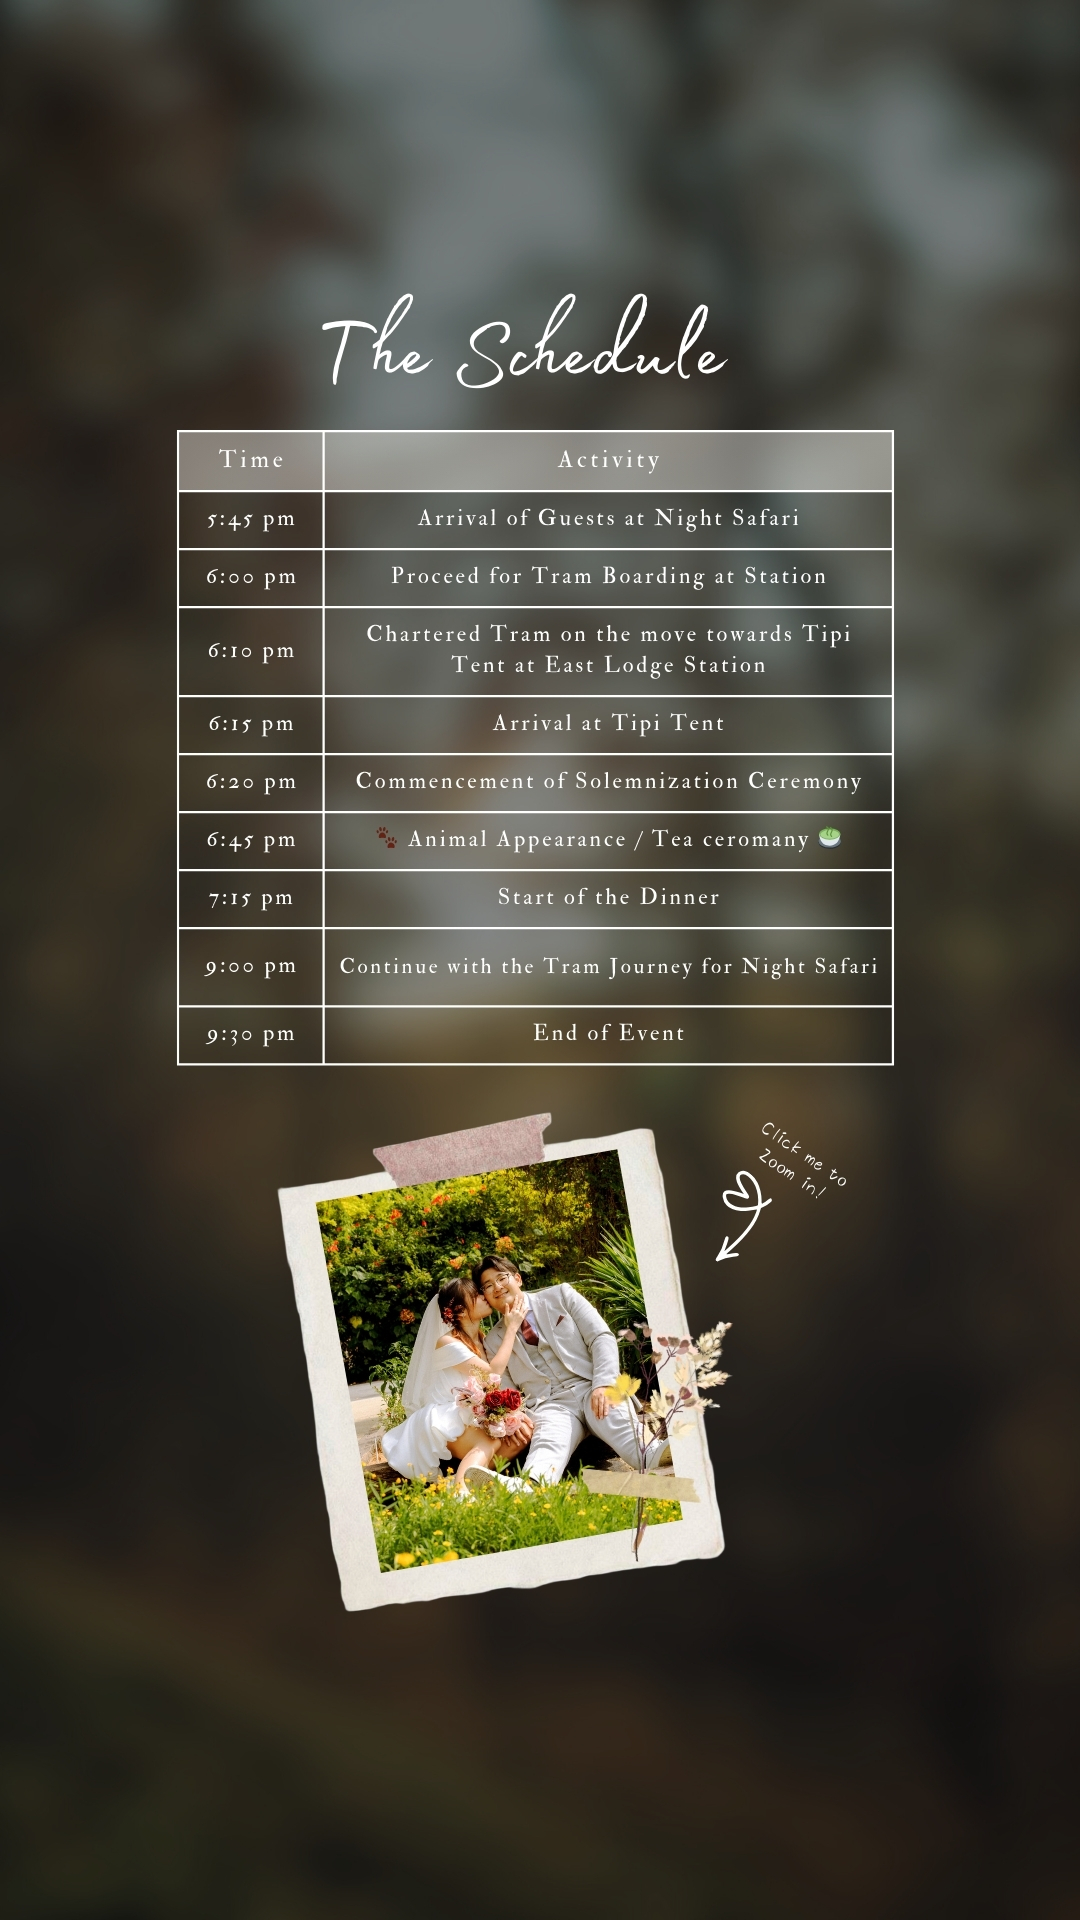
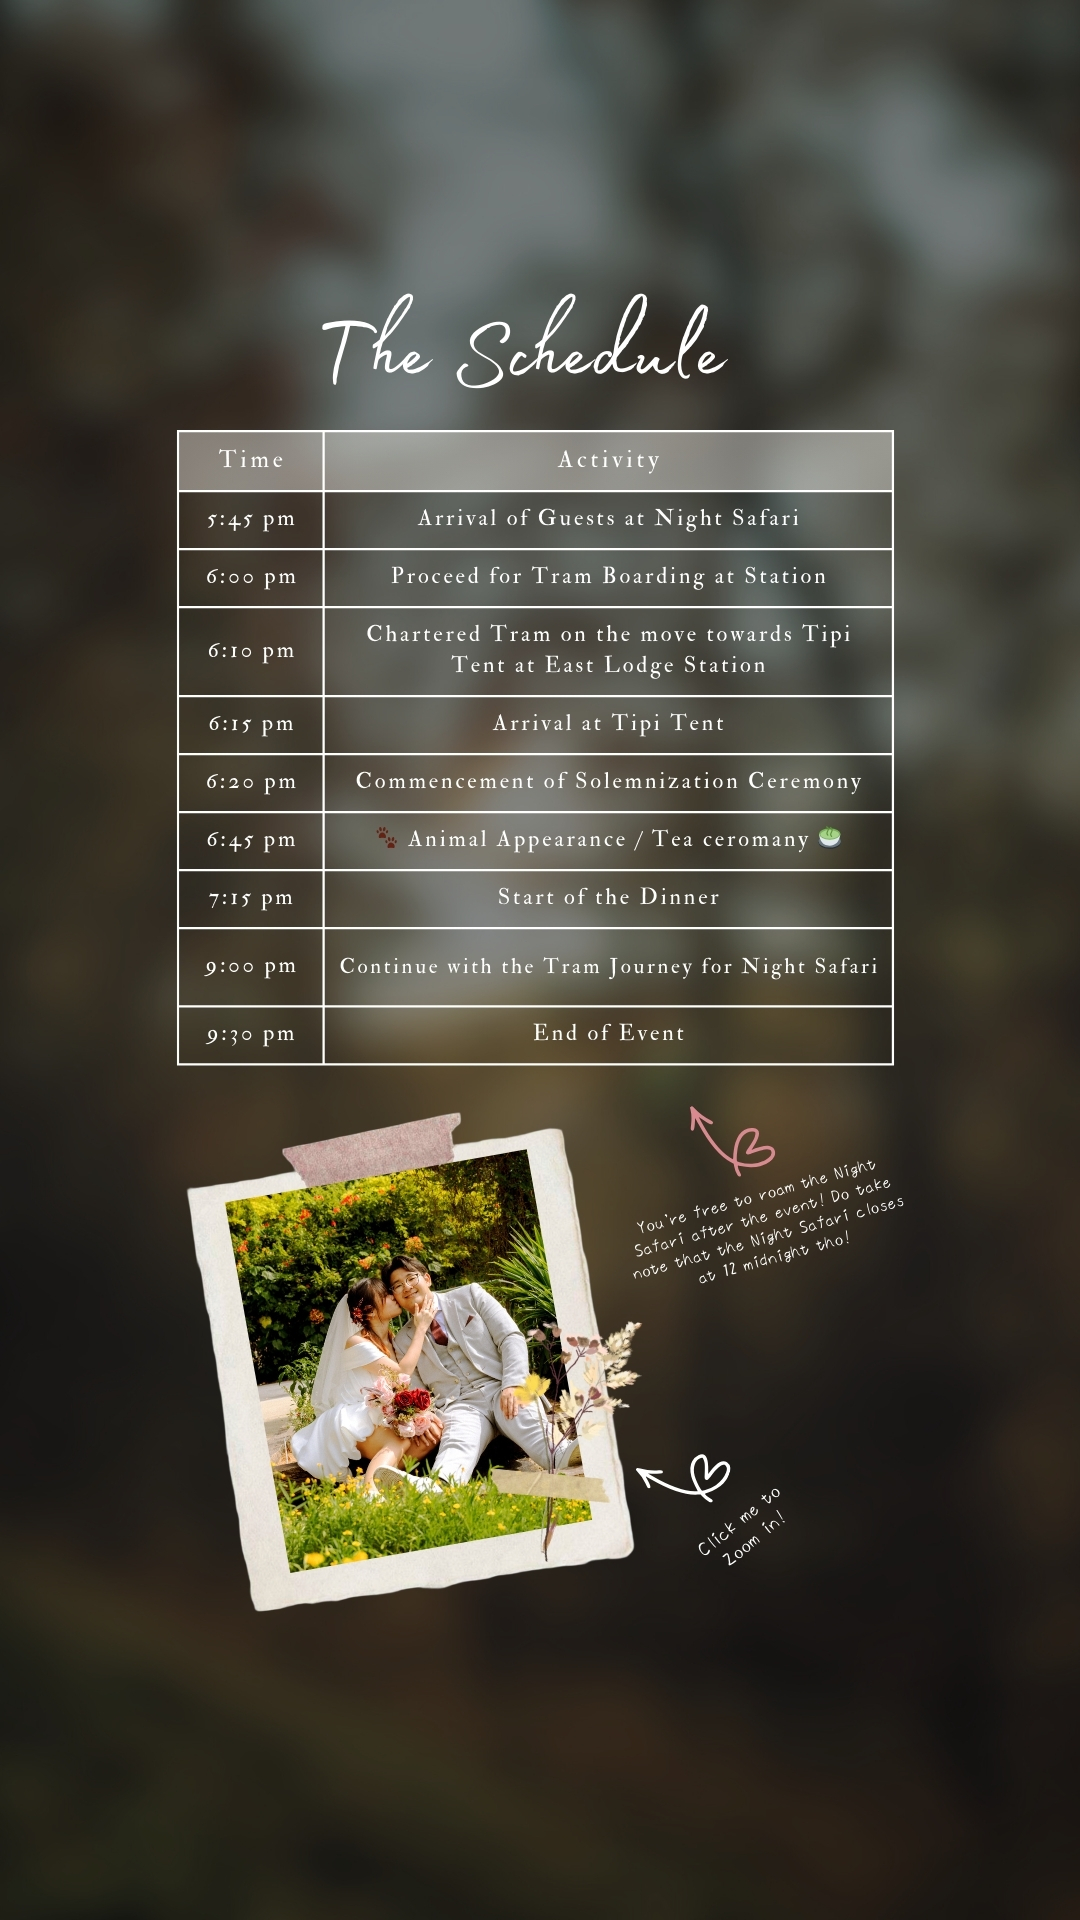
edit modal and addition of words

Changed region(s): [[0.1528, 0.5625, 0.825, 0.8438], [0.6417, 0.5625, 0.6722, 0.5938]]

diff --git a/style.css b/style.css
@@ -534,7 +534,7 @@ button.rsvp-button:hover {
 .section-four .pswp-gallery img {
   max-width: 400px;
   height: 400px;
-  transform: translateX(300px) translateY(80px) rotate(-10deg);
+  transform: translateX(350px) translateY(10px) rotate(-10deg);
 }
 
 
@@ -556,6 +556,29 @@ button.rsvp-button:hover {
     top: 2%;
     /* Adjust this value to move the button higher */
     right: -5%;
+  }
+
+}
+/*laptop*/
+@media (min-width: 1025px) and (max-width: 1440px) {
+ 
+  .section-two .pswp-gallery img {
+    max-width: 250px;
+    max-height: 300px;
+    transform:  translateX(190px) translateY(5px) rotate(-10deg);
+  }
+  
+  .section-three .pswp-gallery img{
+    max-width: 200px;
+    max-height: 250px;
+    transform:  translateX(-330px) translateY(-30px) rotate(15deg);
+  
+  }
+  
+  .section-four .pswp-gallery img {
+    max-width: 250px;
+    max-height: 300px;
+    transform:  translateX(200px) translateY(50px) rotate(-10deg);
   }
 
 }
@@ -645,8 +668,8 @@ button.rsvp-button:hover {
   
   .section-four .pswp-gallery img {
     max-width: 300px;
-    max-height: 450px;
-    transform:  translateX(-20px) translateY(300px) rotate(-10deg);
+    max-height: 410px;
+    transform:  translateX(-70px) translateY(350px) rotate(-10deg);
   }
 
 
@@ -723,7 +746,7 @@ button.rsvp-button:hover {
   .section-four .pswp-gallery img {
     max-width: 250px;
     max-height: 300px;
-    transform:  translateX(-20px) translateY(300px) rotate(-10deg);
+    transform:  translateX(-90px) translateY(300px) rotate(-10deg);
   }
 
 
@@ -798,9 +821,9 @@ button.rsvp-button:hover {
   }
   
   .section-four .pswp-gallery img {
-    max-width: 250px;
-    max-height: 280px;
-    transform:  translateX(-20px) translateY(250px) rotate(-10deg);
+    max-width: 200px;
+    max-height: 210px;
+    transform:  translateX(-60px) translateY(210px) rotate(-10deg);
   }
 
 

diff --git a/index.html b/index.html
@@ -36,6 +36,8 @@
             <a href="./images/ModalImages/What to Wear.png" data-pswp-width="800" data-pswp-height="600">
                 <img src="./images/ModalImages/Transaparent.png" alt="What to Wear">
             </a>
+            <!-- Hidden second image for zoom -->
+        <a href="./images/ModalImages/NoteModal.png" data-pswp-width="600" data-pswp-height="450" style="display: none;"></a>
         </div>
     </section>
 
